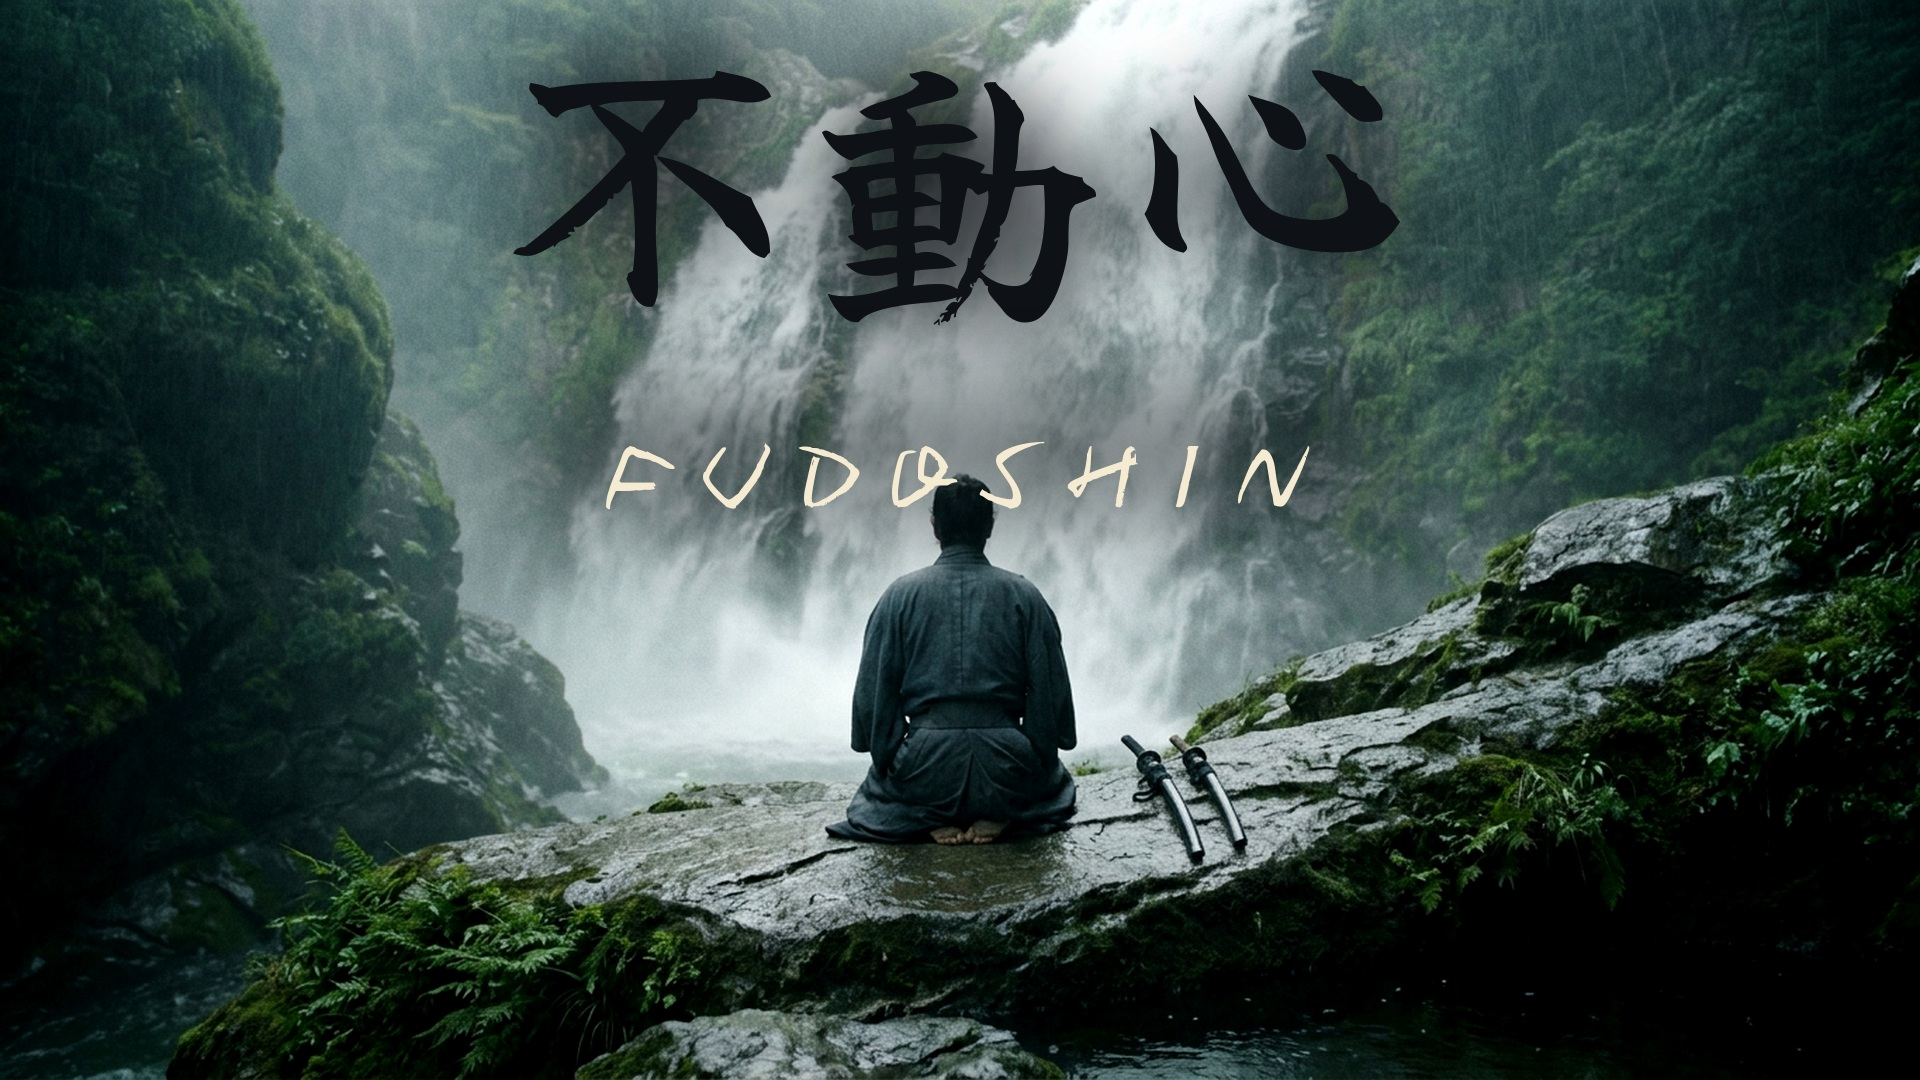
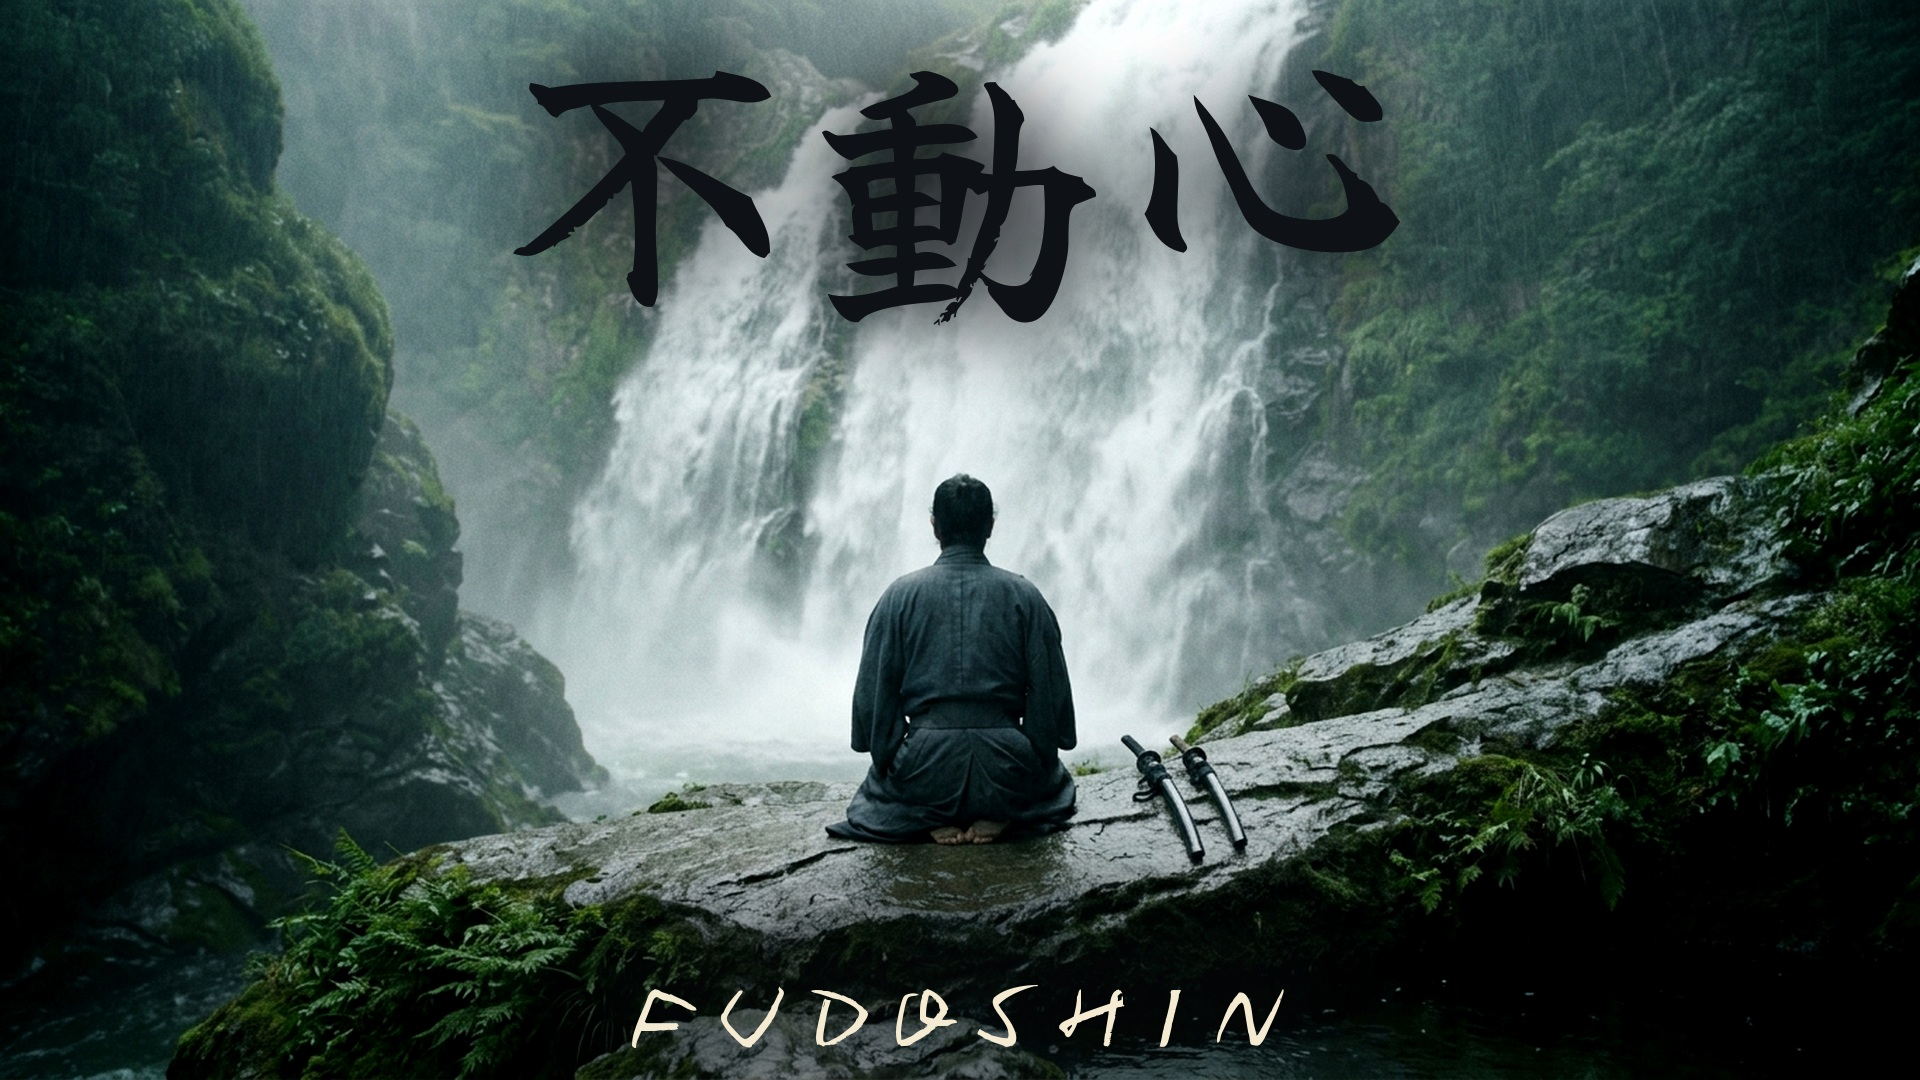
FUDOSHIN thumb: drop romaji low onto the rock; lock kanji-high/romaji-low as Kanji-Concept canon

diff --git a/stillwave/assets/fudoshin-compose-thumb.py b/stillwave/assets/fudoshin-compose-thumb.py
@@ -2,7 +2,8 @@
 """FUDOSHIN thumbnail — 不動心 upper-centre over the waterfall + FUDOSHIN below.
 
 Kanji-Concept canon (per CLAUDE.md): the KANJI goes LARGE upper-centre in dark
-sumi ink brushed over the visual hero (here the waterfall), ROMAJI in cream below.
+sumi ink brushed over the visual hero (here the waterfall), ROMAJI in cream LOW on the rock beneath the samurai (user pref 2026-07-28:
+keep the romaji down on the stone, not tucked under the kanji — lets the frame breathe).
 NOT the lower-left figure-8 rule — that's for Healing Hour / Pomodoro only.
 
 The waterfall is bright (mean ~176), so the sumi kanji gets a soft DARK halo to
@@ -69,9 +70,9 @@ def spaced_centre(im, text, size, cx_centre, y, fill=CREAM, ls=16):
     x = cx_centre - total / 2
     # soft dark backing for the romaji
     sc = Image.new("RGBA", (W, H), (0, 0, 0, 0))
-    ImageDraw.Draw(sc).rounded_rectangle((x - 60, y - 20, x + total + 60, y + size + 30),
-                                         radius=60, fill=(8, 12, 14, 130))
-    im.alpha_composite(sc.filter(ImageFilter.GaussianBlur(50)))
+    ImageDraw.Draw(sc).rounded_rectangle((x - 70, y - 24, x + total + 70, y + size + 34),
+                                         radius=70, fill=(8, 12, 14, 165))
+    im.alpha_composite(sc.filter(ImageFilter.GaussianBlur(60)))
     cx = x
     for c, w in zip(text, widths):
         d.text((cx, y), c, font=f, fill=fill)
@@ -81,6 +82,6 @@ def spaced_centre(im, text, size, cx_centre, y, fill=CREAM, ls=16):
 im = base()
 CENTRE = 958   # slightly left of frame centre — samurai head sits just right of it
 sumi(im, ["不", "動", "心"], 300, CENTRE, 70, pitch=310)
-spaced_centre(im, "FUDOSHIN", 92, CENTRE, 400, ls=18)
+spaced_centre(im, "FUDOSHIN", 86, CENTRE, 946, ls=16)  # low, on the rock under the samurai
 im.convert("RGB").save(OUT, quality=94)
 print("saved", OUT)

diff --git a/stillwave/CLAUDE.md b/stillwave/CLAUDE.md
@@ -446,7 +446,7 @@ Karena's 20/20/40-50 brand-heavy rule is **overridden** for Kanji-Concept series
 
 - **Background:** the NanoBanana 16:9 image (monk + symbolic visual hook). NO additional compositing — image IS the thumbnail with text on top.
 - **Text 1 — KANJI (LARGE):** `[漢字]` rendered LARGE in upper-center, in deep black sumi-ink calligraphic style (like a brush stroke). Should read AS IF the kanji is brushed onto the visual hero (the ENSO, the mural, etc.).
-- **Text 2 — ROMAJI (medium):** `[ROMAJI]` rendered below the kanji in elegant cream `#F5EAD2` serif (Liberation Serif Bold). Centered under the kanji.
+- **Text 2 — ROMAJI (medium):** `[ROMAJI]` rendered in elegant cream `#F5EAD2` serif (Liberation Serif Bold), **centred but LOW — down on the foreground (rock/floor) beneath the figure, NOT tucked directly under the kanji** (user pref, LOCKED 2026-07-28). Kanji high + romaji low lets the frame breathe and keeps the visual hero clear in the middle. Give the romaji a soft dark scrim if the surface under it is mid-tone.
 - **No tag/Hz/duration text** — clean. Just the concept + symbol.
 
 > **Why deviate from figure-8 lower-left?** Because competitor data is overwhelming: KAMI, TORA, BUDŌ, TAO, SHORYŪ, IKIGAI all use upper-center kanji + romaji over the visual hero. The Kanji-Concept format has its own brand-recognition logic — the kanji IS the click magnet, not the negative-space text overlay. Figure-8 stays the rule for Power Hour Pomodoro + Healing Hour Ghibli (other series).
